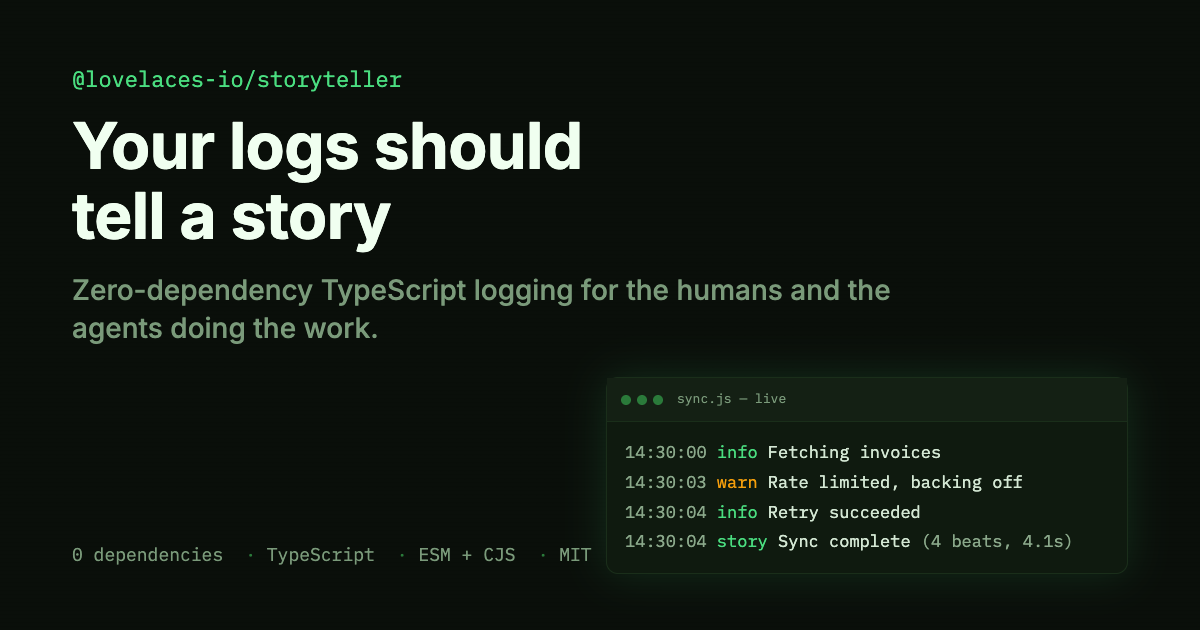
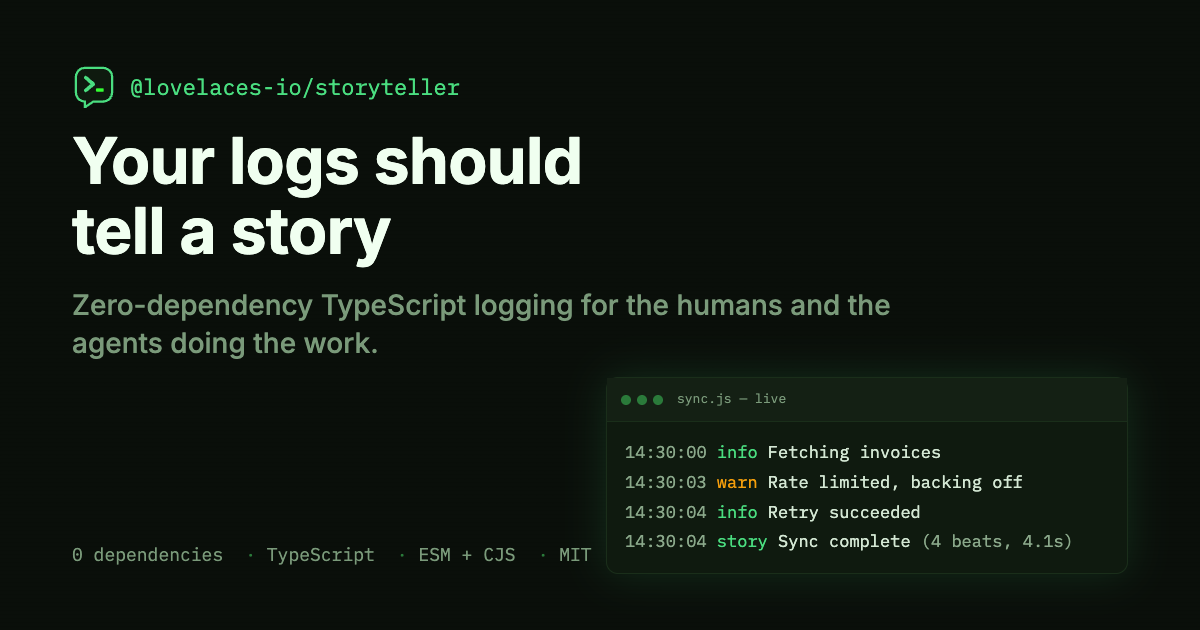
A mark of its own: the terminal that speaks
Storyteller had been using the green Lovelaces logo. The new mark is a prompt
window with a speech-bubble tail — a terminal that talks — which is the
library's premise in one glyph and is not the stock terminal icon.

- site/public/storyteller-logo.svg: the source of truth
- favicon.svg, favicon.ico (16/32/48, PNG-compressed entries), apple-touch-icon
  and a 512px PNG, all rendered from the SVG
- Nav uses the mark; the footer keeps a "by Lovelaces" line with the parent
  mark so the brand relationship stays visible
- OG image re-rendered with the mark beside the package name
- README gets the mark above the title

Changed region(s): [[0.0617, 0.0905, 0.74, 0.573]]

diff --git a/site/src/styles/global.css b/site/src/styles/global.css
@@ -828,3 +828,7 @@ h2:hover .heading-anchor { opacity: 1; color: var(--green-dim); }
   .docs-search { flex: 0 0 100%; margin-bottom: 0.5rem; }
   .on-this-page { display: none; }
 }
+
+footer .footer-by { margin-top: 0.75rem; }
+footer .footer-by a { display: inline-flex; align-items: center; gap: 0.4rem; color: var(--text-muted); font-family: var(--font-mono); font-size: 0.8rem; }
+footer .footer-by a:hover { color: var(--green); }

diff --git a/README.md b/README.md
@@ -1,3 +1,5 @@
+<p align="left"><img src="site/public/storyteller-logo.svg" alt="" width="56" height="56" /></p>
+
 # Storyteller
 
 [![npm](https://img.shields.io/npm/v/@lovelaces-io/storyteller)](https://www.npmjs.com/package/@lovelaces-io/storyteller)
